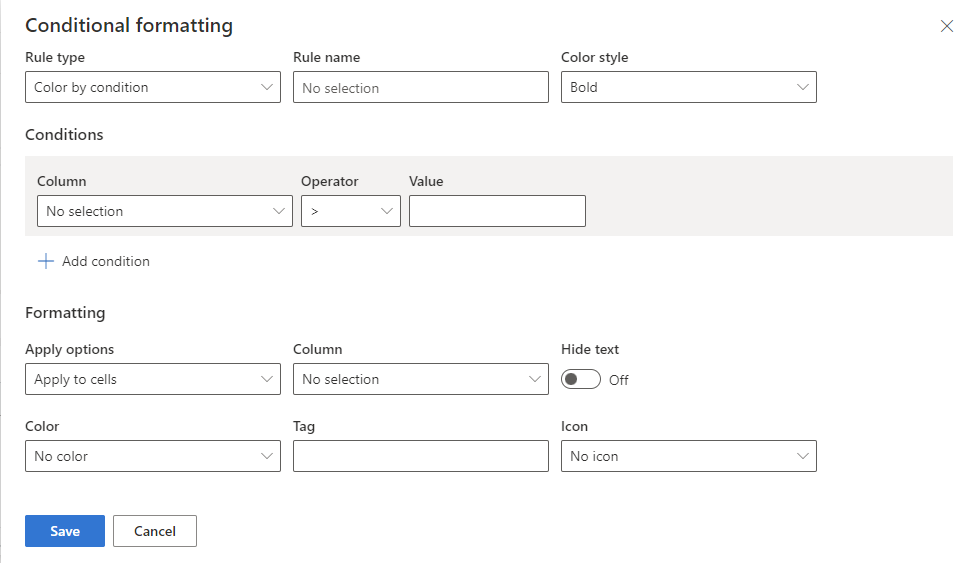
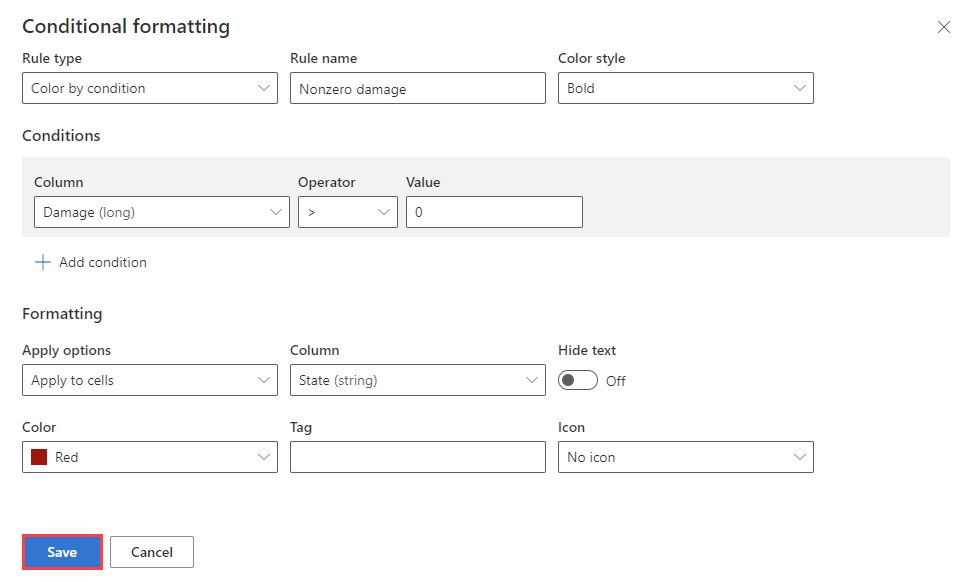
added examples

diff --git a/data-explorer/dashboard-customize-visuals.md b/data-explorer/dashboard-customize-visuals.md
@@ -3,7 +3,7 @@ title: Customize Azure Data Explorer dashboard visuals
 description: Easily customize your Azure Data Explorer dashboard visuals
 ms.reviewer: gabil
 ms.topic: how-to
-ms.date: 11/21/2022
+ms.date: 11/29/2022
 ---
 
 # Customize Azure Data Explorer dashboard visuals
@@ -160,33 +160,53 @@ Each visual can have one or more conditional formatting rules defined. When mult
 
     :::image type="content" source="media/dashboard-customize-visuals/edit-new-rule.png" alt-text="Screenshot of editing new rule in dashboards in Azure Data Explorer.":::
 
-1. Select the **Edit** icon. The **Conditional formatting** pane opens.
-
-    :::image type="content" source="media/dashboard-customize-visuals/edit-conditional-formatting.png" alt-text="Screenshot of editing conditional formatting in dashboards in Azure Data Explorer web UI.":::
-
-1. Enter the following information for each rule:
-
-    Field | Description | Suggested value
-    |---|---|---|
-    | Rule type |
-    | Rule name |
-    | Color style |
-    | Conditions: Column |
-    | Conditions:  Operator |
-    | Conditions: Value |
-    | Formatting: Apply options |
-    | Formatting: Column |
-    | Formatting: Hide text |
-    | Formatting: Color |
-    | Formatting: Tag |
-    | Formatting: Icon |
-
-WAITING ON MORE INFORMATION FROM GABI
+1. Select the **Edit** icon. The **Conditional formatting** pane opens. You can either [Color by condition](#color-by-condition) or [Color by value](#color-by-value).
 
 #### Color by condition
 
+1. In this example, we're going to create a rule that will color the cells of states in which the damage column is a value greater than zero. Enter the following information:
+
+    :::image type="content" source="media/dashboard-customize-visuals/edit-conditional-formatting.png" alt-text="Screenshot of editing conditional formatting in dashboards in Azure Data Explorer web UI.":::
+
+    Field | Description | Suggested value
+    |---|---|---| 
+    | Rule type | Condition-based rules or absolute value-based rules. | Color by condition
+    | Rule name | Enter a name for this rule. If not defined, the condition column will be used by default. | Nonzero damage
+    | Color style | Color formatting cell fill or text. |Bold
+    | **Conditions** 
+    | Column | The column to be used for the condition definition. |  Damage
+    | Operator | The operator to be used to define the condition. | Greater than ">"
+    | Value | The value to be compared to the condition. |
+    |**Formatting**
+    | Apply options | Apply the formatting to cells in a specific column or to the entire row. | Apply to cells
+    | Column | The column on which the formatting is applied. By default, this column is the condition column. This option is only available when **Formatting: Apply options** is set to *Apply to cells*. | State
+    | Hide text | Hides the text in the formatted column. This option is only available when **Formatting: Apply options** is set to *Apply to cells*. | Off
+    | Color | The color to apply to the formatted column/rows. | Red 
+    | Tag | Optional tag to add to the formatted column. This option is only available when **Formatting: Apply options** is set to *Apply to cells*. | Blank
+    | Icon | Optional icon to add to the formatted column. This option is only available when **Formatting: Apply options** is set to *Apply to cells*. | No icon
+
+1. Select **Save**. The visual will now be colored conditionally. Note in this example that the *State* column is highlighted when the *Damage* column is greater than zero.
+    
+    :::image type="content" source="media/dashboard-customize-visuals/color-by-condition.png" alt-text="Screenshot of resulting graph from color by condition.":::
+
 #### Color by value
 
+1. In this example, we're going to create a rule that will color the cells of event count by the value of this count.  Enter the following information:
+
+    :::image type="content" source="media/dashboard-customize-visuals/color-by-value.png" alt-text="Screenshot of conditional formatting to color by value.":::
+    Field | Description | Suggested value
+    |---|---|---| 
+    | Rule type | Condition-based rules or absolute value-based rules. | Color by value
+    | Rule name | Enter a name for this rule. If not defined, the condition column will be used by default. |Event count
+    | Column | The column to be used for the condition definition. | event
+    | Theme | Color scheme. | Cold
+    | Min value | Optional minimum value for conditional coloring.
+    | Max value |  Optional maximum value for conditional coloring.
+    | Apply options | Apply the formatting to cells in a specific column or to the entire row. | Apply to cells |
+
+1. Select **Save**. The visual will now be colored conditionally. 
+
+    :::image type="content" source="media/dashboard-customize-visuals/color-by-value-results.png" alt-text="Screenshot of results for coloring by value.":::
 
 ## Next steps
 
